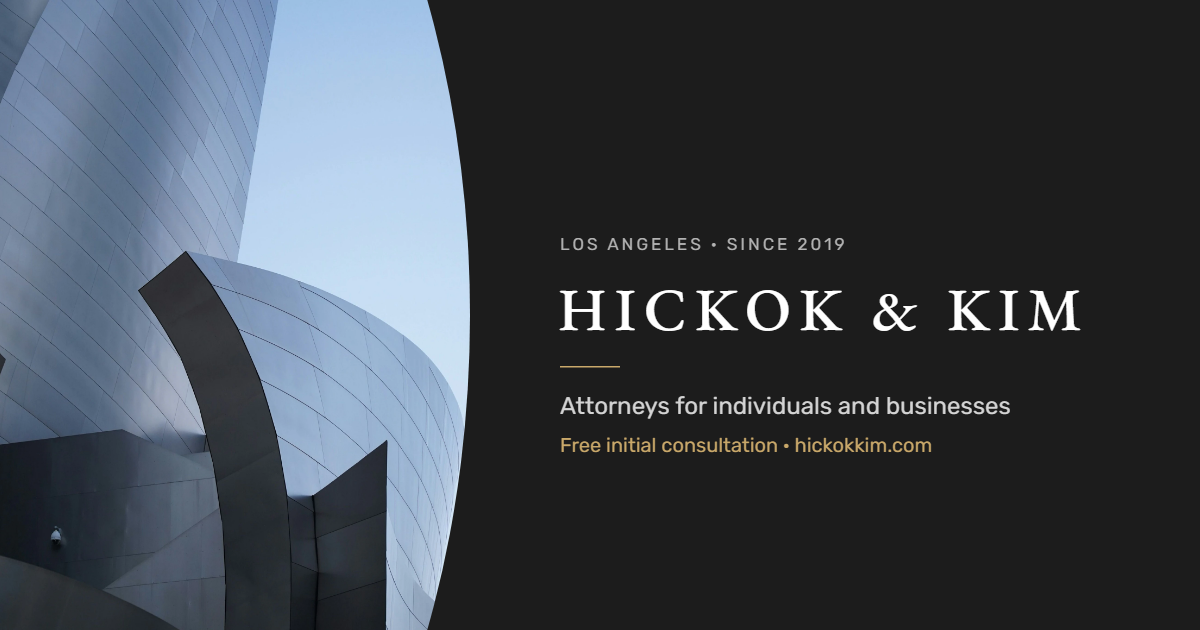
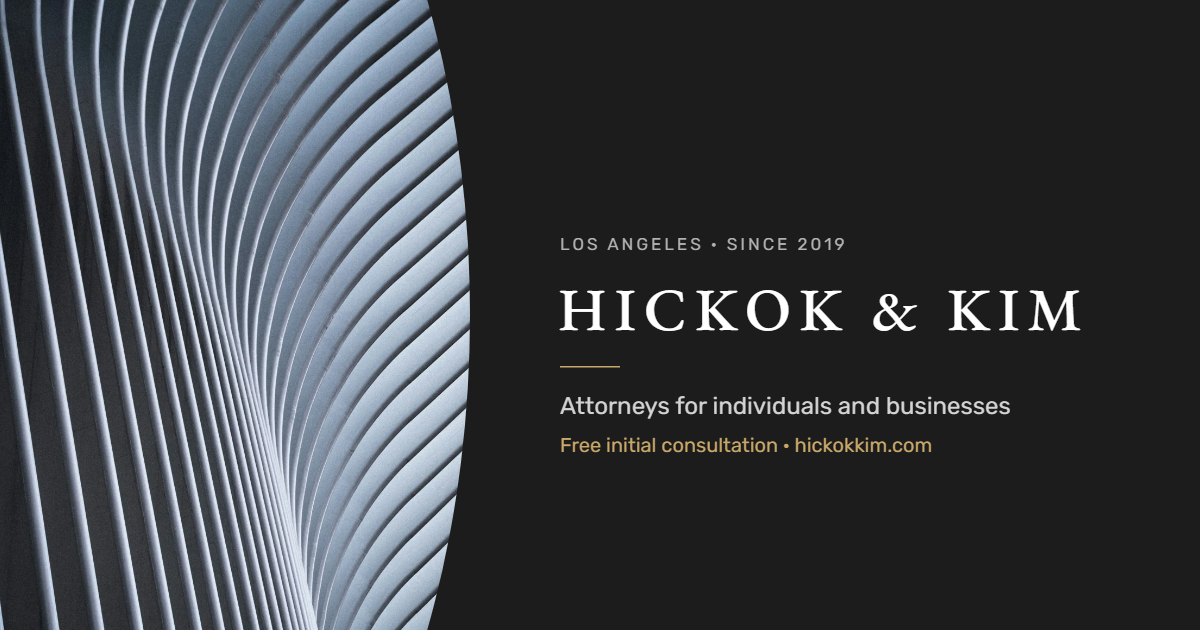
New imagery: architectural ribs, metallic waves, Disney Hall steel
- Home opening: curved white architectural ribs (Erik Eastman, Unsplash),
  2000 x 2320 crop, median-filtered to remove grain, WebP q72 at
  800/1200/1600/2000 px (52-290 KB). Share image regenerated from it.
- Home outside general counsel band: abstract metallic waves (3D render,
  Zac Ong, Unsplash), 700/1200 px square.
- Closing band on every inner page (CtaBand): Walt Disney Concert Hall
  steel (Salvatore Favata, Unsplash), 700/1200 px square, lazy <img>;
  the per-partner art variant is gone.
- Removed the now-unused generated art (facade, louvers, contours-warm)
  and its generators, and the previous photos.
- Stronger top shade on phones so the wordmark stays legible over the
  lighter photo.

diff --git a/scripts/brand/sheet.html b/scripts/brand/sheet.html
@@ -19,10 +19,10 @@
 </head>
 <body>
 <svg style="left:0;top:0" width="1200" height="630" viewBox="0 0 1200 630">
-  <!-- Left: the home page photograph (Walt Disney Concert Hall, Alexandr Voronsky, Unsplash License) with its curved edge. -->
+  <!-- Left: the home page photograph (architectural ribs, Erik Eastman, Unsplash License) with its curved edge. -->
   <defs><clipPath id="curve"><ellipse cx="0" cy="315" rx="470" ry="756"/></clipPath></defs>
   <rect width="1200" height="630" fill="#1c1c1c"/>
-  <image href="../../public/assets/art/la-photo.webp" x="0" y="0" width="470" height="630" preserveAspectRatio="xMidYMid slice" clip-path="url(#curve)"/>
+  <image href="../../public/assets/art/hero.webp" x="0" y="0" width="470" height="630" preserveAspectRatio="xMidYMid slice" clip-path="url(#curve)"/>
   <text class="sans" x="560" y="250" font-size="17" letter-spacing="3" fill="#b3b3b3">LOS ANGELES · SINCE 2019</text>
   <text class="wm" x="558" y="330" font-size="60" letter-spacing="8.4" fill="#fff">HICKOK &amp; KIM</text>
   <rect x="560" y="366" width="60" height="1.5" fill="#c9a86a"/>

diff --git a/src/styles/global.css b/src/styles/global.css
@@ -323,6 +323,9 @@ figure.data-table figcaption { font-size: .72rem; letter-spacing: .12em; text-tr
    as the home showcase. The image URL arrives as --art on the element. */
 .feature__art { min-height: 220px; background: var(--art) center / cover no-repeat; }
 @media (min-width: 900px) { .feature__art { clip-path: ellipse(100% 125% at 0% 50%); } }
+/* Photo panels use a lazy-loading <img> instead of a CSS background. */
+.feature__art--photo { position: relative; overflow: hidden; }
+.feature__art--photo img { position: absolute; inset: 0; width: 100%; height: 100%; object-fit: cover; }
 .feature__body { padding: clamp(40px, 6vw, 80px) var(--gutter); display: flex; flex-direction: column; justify-content: center; gap: 18px; max-width: 760px; }
 .feature__body h2 { color: #fff; font-size: clamp(1.7rem, 3vw, 2.4rem); }
 .feature__actions { display: flex; flex-wrap: wrap; gap: 12px; margin-top: 6px; }

diff --git a/README.md b/README.md
@@ -61,12 +61,15 @@ The site follows the structure and feel of large-firm editorial sites such as ki
 - **Tokens** live at the top of `src/styles/global.css`. To change the accent colour, edit `--accent`, `--accent-on-dark`, and `--accent-fill` only. Each was chosen to pass 4.5:1 contrast on its background.
 - **Type** is Playfair Display for headings and Rubik for body text, loaded asynchronously. Metric-matched fallbacks (`Playfair Fallback`, `Rubik Fallback`) keep layout shift at zero; the size-adjust values were measured in the browser. Re-measure if either family changes.
 - **Wordmark** is "Hickok & Kim" in spaced EB Garamond capitals, one colour throughout (white on dark, charcoal on the open menu), ampersand included. Only the letters of the name are downloaded, using Google Fonts' `text=` subset in `src/layouts/Base.astro`; if the name ever changes, update that list of letters. Georgia sets the name at the same width, so the font swap does not move anything.
-- **Building blocks** in `src/components/`: `PageHero` (dark title band with rule and an optional link), `Section` (label-left layout; tones white, mist, dark), `Expandable` ("+ More" truncation that keeps every word in the HTML), `LawyerList`, `CtaBand` (curved art panel plus charcoal panel), `IntakeForm`, `Header` (with the menu overlay), `Footer`, `StickyCta`.
-- **Home page** opens with a single split screen: the Walt Disney Concert Hall photograph with its curved edge on the left, and on the right a charcoal panel with the page heading, one headline, one supporting line, two quick links (practice areas, lawyers), and the consultation button. It does not rotate. So visitors see one "Free consultation" at a time, the header's button stays hidden until the opening's button scrolls out of view (a few lines of script; without JavaScript both simply show).
-- **Artwork** in the feature and closing bands is generated, not photographed: `node scripts/make-art.mjs` renders the louvers, tower facade, contour lines, and menu texture into `public/assets/art/` as WebP, and writes the inner-page hero texture (grey with fine white lines) as `hero-texture.svg`, a vector file, so its faint lines stay sharp on every screen.
+- **Building blocks** in `src/components/`: `PageHero` (dark title band with rule and an optional link), `Section` (label-left layout; tones white, mist, dark), `Expandable` ("+ More" truncation that keeps every word in the HTML), `LawyerList`, `CtaBand` (curved photo panel plus charcoal panel), `IntakeForm`, `Header` (with the menu overlay), `Footer`, `StickyCta`.
+- **Home page** opens with a single split screen: the architectural photograph with its curved edge on the left, and on the right a charcoal panel with the page heading, one headline, one supporting line, two quick links (practice areas, lawyers), and the consultation button. It does not rotate. So visitors see one "Free consultation" at a time, the header's button stays hidden until the opening's button scrolls out of view (a few lines of script; without JavaScript both simply show).
+- **Artwork** that is generated rather than photographed: `node scripts/make-art.mjs` renders the pale contour lines behind the menu overlay (`menu-contours.webp`) and writes the inner-page hero texture (grey with fine white lines) as `hero-texture.svg`, a vector file, so its faint lines stay sharp on every screen.
 - **Share image and icons** (`og-default.png`, `apple-touch-icon.png`, `favicon.ico`, `favicon-96.png`, `favicon-32.png`) are built by `node scripts/make-og.mjs`. The share image is drawn in `scripts/brand/sheet.html`, which the script screenshots with headless Chrome or Edge so they use the site's own fonts. Set `CHROME_PATH` if the browser is not in its usual place. The icons are the firm's HK monogram seal, from `scripts/brand/hk-monogram.png`; the script clears the white around it so it sits cleanly on light or dark browser tabs, and puts the iPhone home-screen icon on white.
-- **Photography.** The home page opening and the share image use a photograph of the steel curves of the Walt Disney Concert Hall, downtown Los Angeles, by Alexandr Voronsky (https://unsplash.com/photos/LDjmmF8xD2M), under the Unsplash License, which permits commercial use without attribution; we credit it here anyway. Files, cropped to 2000 x 2320 from a 2400 px download: `public/assets/art/la-photo.webp` (2000 px), `la-photo-lg.webp` (1600 px), `la-photo-md.webp` (1200 px), and `la-photo-sm.webp` (800 px, phones), all WebP quality 90 (the smooth sky bands at lower quality). The browser picks the smallest that is sharp on the visitor's screen. These are not generated, so `make-art.mjs` leaves them alone. To use a different photo, replace all four files at the same aspect ratio, adjust `pos` on `heroImg` in `src/pages/index.astro`, and update the credit here and in that file, then rerun `node scripts/make-og.mjs`.
-- **Featured-service photo.** The home page's Outside General Counsel band uses The Broad, the museum next door to the Disney Hall, by Venti Views (https://unsplash.com/photos/i5KFD-_2dd4, Unsplash License). Files: `public/assets/art/the-broad.webp` (1200 px square) and `the-broad-sm.webp` (700 px, phones), WebP quality 78. It loads lazily, only as the visitor scrolls toward it. The closing bands on inner pages still use the generated tower art.
+- **Photography.** Three images from Unsplash, all under the Unsplash License (commercial use, no attribution required; credited here anyway). Each is exported as WebP in the sizes its slot needs, and the browser picks the smallest that is sharp on the visitor's screen. These are not generated, so `make-art.mjs` leaves them alone.
+  - **Home opening:** curved white architectural ribs by Erik Eastman (https://unsplash.com/photos/-6zFVL4YuaM). Files `hero.webp` (2000 px), `hero-lg` (1600), `hero-md` (1200), `hero-sm` (800, phones), cropped to 2000 x 2320 with light noise reduction (median filter), quality 72. Also used by the share image, so rerun `node scripts/make-og.mjs` after replacing it.
+  - **Outside General Counsel band (home):** abstract metallic waves, a 3D render by Zac Ong (https://unsplash.com/photos/V3j7yy3CzqU). Files `feature.webp` (1200 px square) and `feature-sm.webp` (700 px).
+  - **Closing band on inner pages:** the steel of the Walt Disney Concert Hall, Los Angeles, by Salvatore Favata (https://unsplash.com/photos/R1PkInr54KU). Files `closing.webp` (1200 px square) and `closing-sm.webp` (700 px).
+  - The band images load lazily, only as the visitor scrolls toward them. To swap one, replace its files at the same shape and update the credit here and in the component (`src/pages/index.astro` or `src/components/CtaBand.astro`).
 - **Testimonials** appear on the home page automatically once real, permitted quotes are added to `testimonials` in `src/data/firm.ts`.
 - **vCards** for each partner are generated at `/vcard/<slug>.vcf` from the firm's published phone and email.
 
